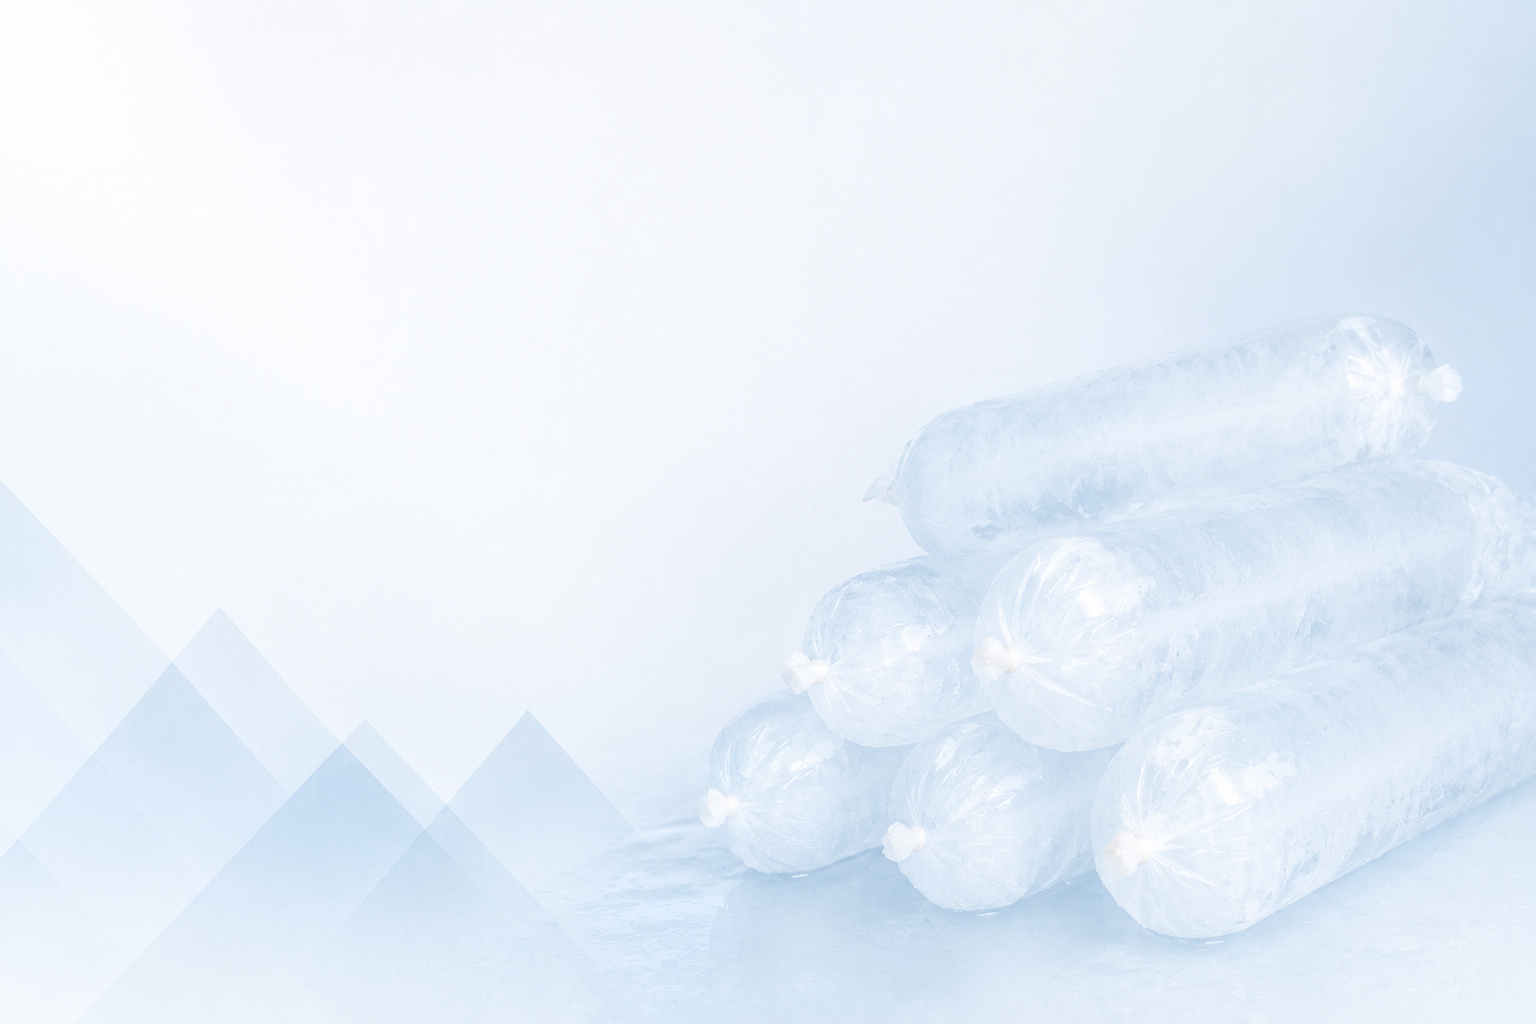
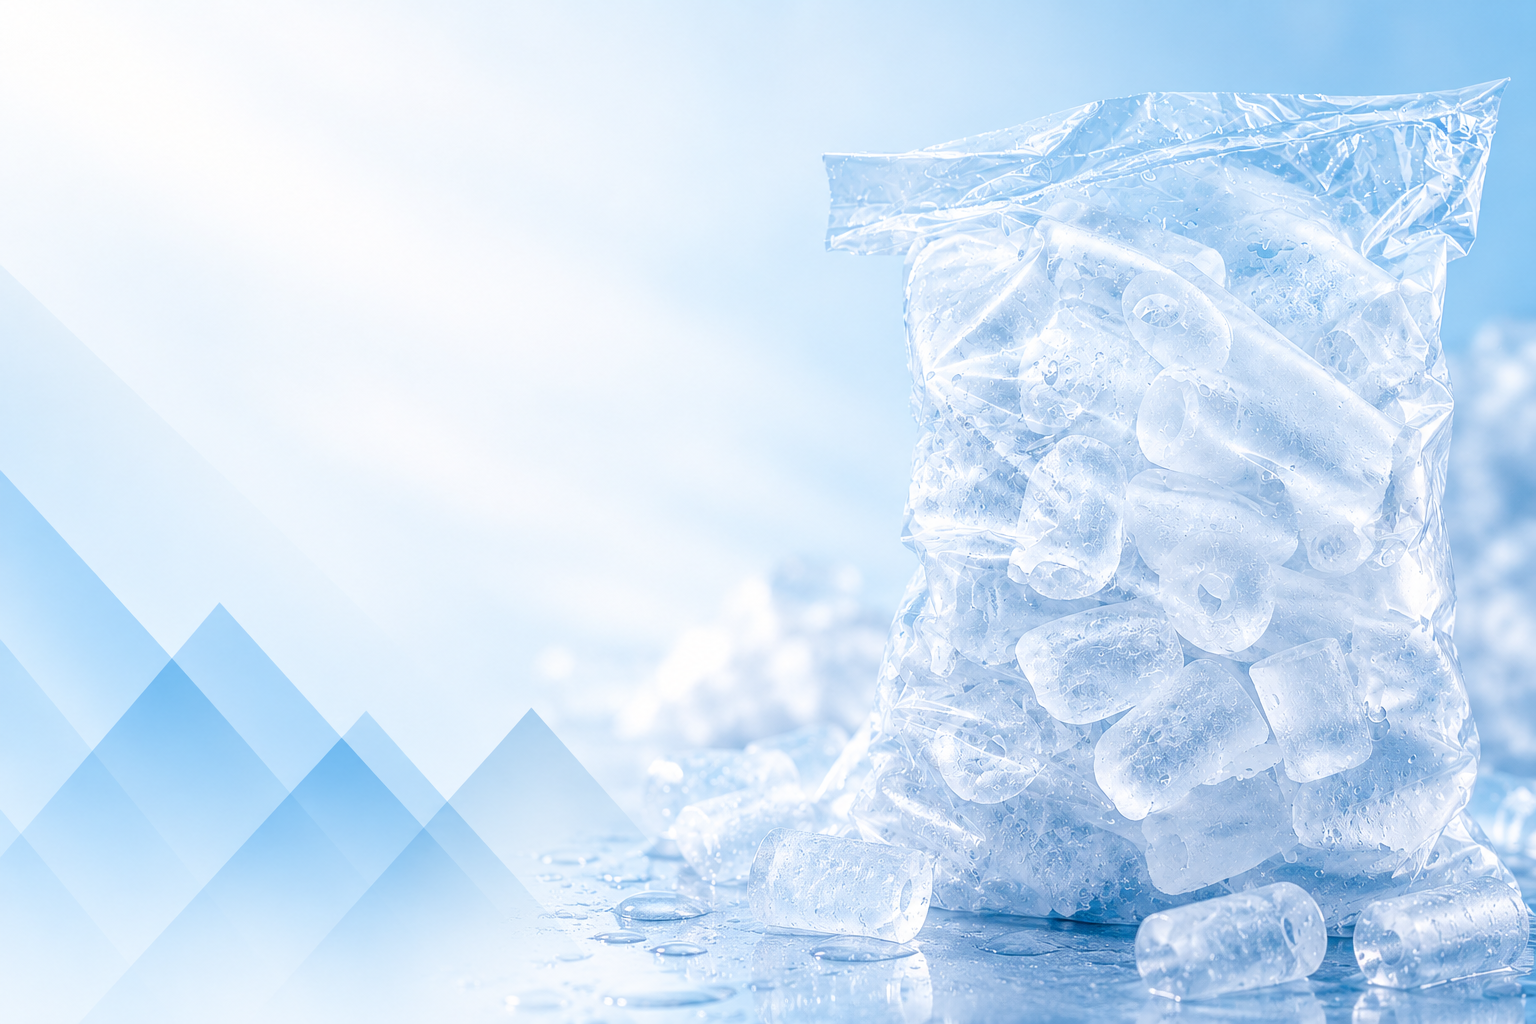
background image

diff --git a/src/components/RptOrdersStatus.vue b/src/components/RptOrdersStatus.vue
@@ -80,8 +80,8 @@
               </template>
             </Column>
 
-            <!-- <Column field="id" header="Order Id" sortable v-bind="columnDefaults"></Column>
-            <Column field="trip_id" header="Trip Id" sortable v-bind="columnDefaults"></Column> -->
+            <Column field="id" header="Order Id" sortable v-bind="columnDefaults"></Column>
+            <Column field="trip_id" header="Trip Id" sortable v-bind="columnDefaults"></Column>
 
             <Column field="dealer" header="Dealer" sortable v-bind="columnDefaults"></Column>
             <Column

diff --git a/src/components/StoresProfileUpdate.vue b/src/components/StoresProfileUpdate.vue
@@ -185,6 +185,7 @@
                 showClear
                 @clear="store_id = null"
                 class="daice-select w-full"
+                filter
                 @keydown.enter.prevent="focusNextSel('statusRef')"
               />
               <label for="store_id">Store</label>
